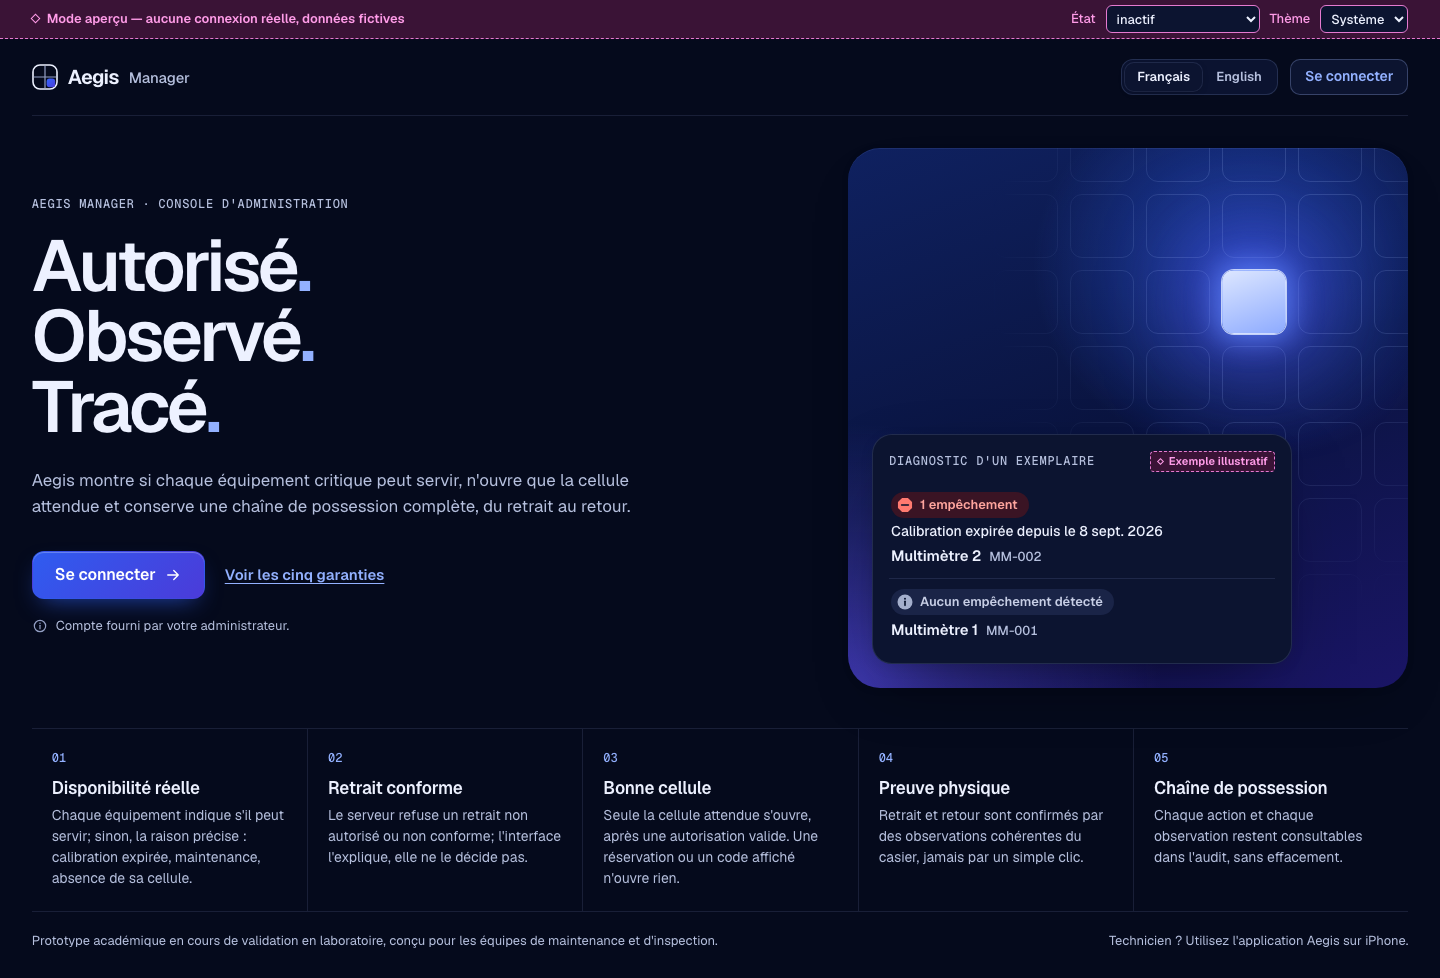
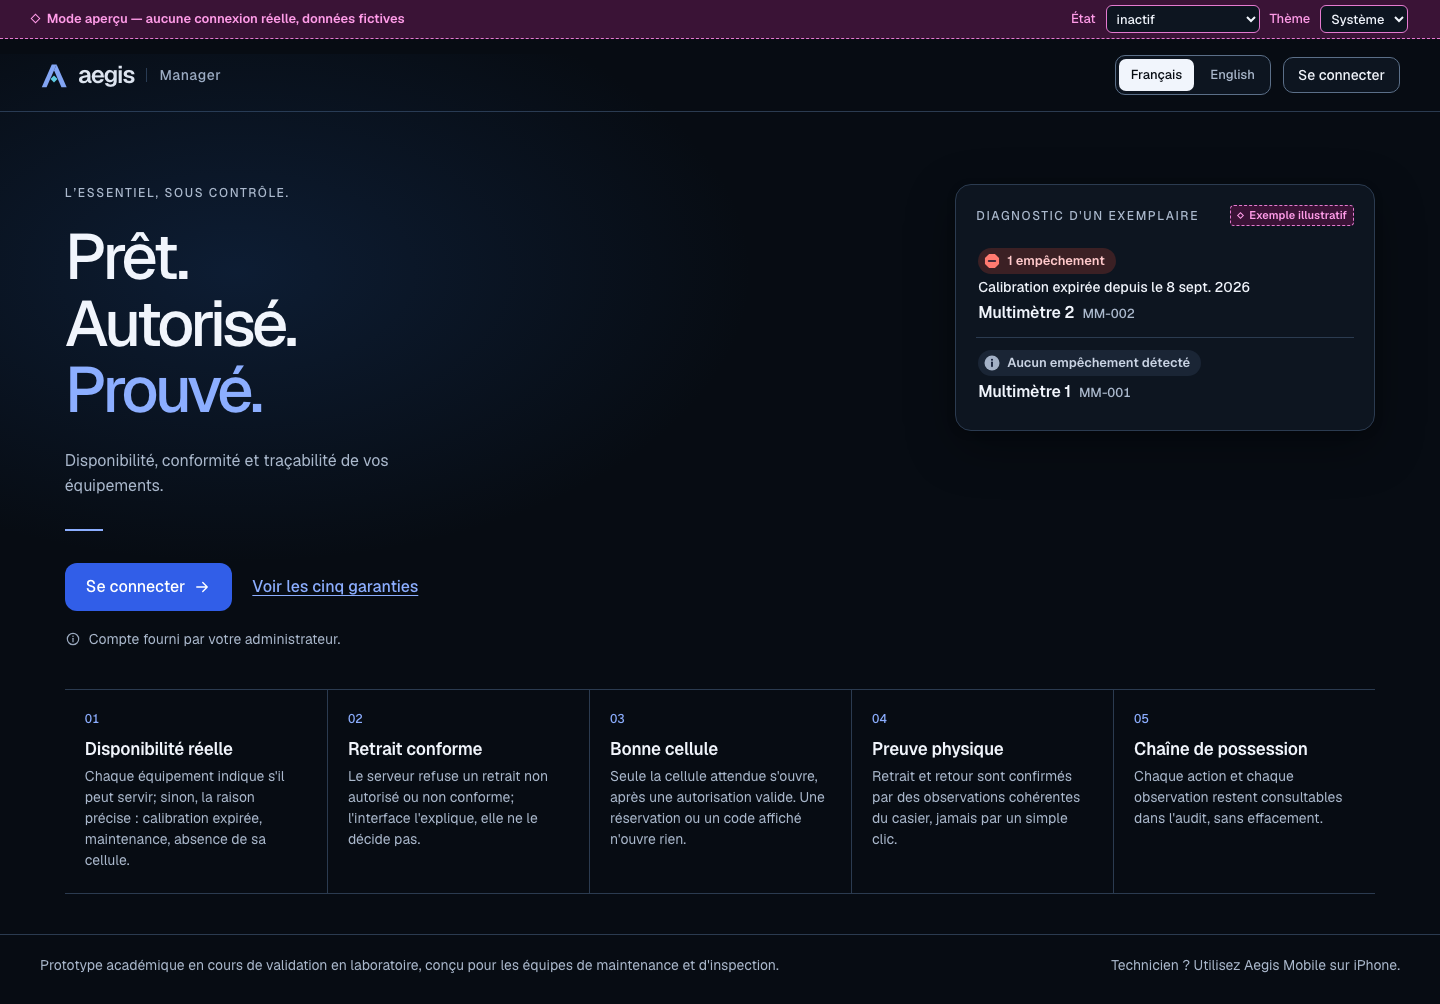
docs(design): record the v3 integration and regenerate the entry evidence
Add the 14 integrated captures (FR/EN, light/dark, 1440 to 640x400), regenerate
the manager-entree captures from the integrated app, and record in the v3 README
how Philippe's decisions were integrated.

diff --git a/docs/design/manager-v3/README.md b/docs/design/manager-v3/README.md
@@ -1,9 +1,55 @@
 # Aegis Manager — identité « Lumière du hub » v3 (issue #79, premier livrable)
 
-Mode : Prototype. Date : 21 octobre 2026. Plateforme : Web. Statut : **rendus à
-faire approuver par Philippe avant toute modification de `apps/admin-web`**.
-Ce dossier ne touche ni au code applicatif, ni aux contrats, ni à
+Mode : Prototype. Date : 21 octobre 2026. Plateforme : Web. Statut : **rendus approuvés par Philippe; intégrés à `apps/admin-web` (voir ci-dessous)**.
+Le prototype lui-même ne touche ni au code applicatif, ni aux contrats, ni à
 l'authentification. Un prototype statique n'est pas une implémentation.
+
+## Intégration dans `apps/admin-web` (issue #79, 21 octobre 2026)
+
+Les rendus ont été approuvés par Philippe et l'identité est intégrée à
+l'application (`apps/admin-web`, branche `79-feat-web-brand-v3`). Les décisions de
+Philippe qui ferment les « Décisions ouvertes » ci-dessous :
+
+1. L'erreur globale de connexion s'affiche **sous le bouton**, dans une zone
+   annoncée (`role="alert"`, `role="status"` pour l'information) : 0 px de saut
+   des champs et du bouton, mesuré à 1440, 390, 320 et 640×400 px pour les quatre
+   erreurs globales. Une erreur de champ reste sous son champ.
+2. Signature commune « Prêt. Autorisé. Prouvé. » / « Ready. Authorized. Proven. »
+   et accroche « L'essentiel, sous contrôle. » / « What matters, under control. »;
+   l'ancien « Autorisé. Observé. Tracé. » disparaît de l'accueil.
+3. Description « Disponibilité, conformité et traçabilité de vos équipements. »
+   / « Equipment availability, compliance and traceability. ».
+4. Le lien « Accueil » est conservé (l'accueil existe), masqué sous 480 px où la
+   marque mène déjà à l'accueil; pied de page « Aegis Mobile ».
+5. Champs sans texte indicatif, libellés persistants.
+6. « Manager » reste visible sur petit écran, sur une seconde ligne sous
+   « aegis » (sous 480 px); le symbole passe à 24 px.
+7. Bordure des contrôles, anneau de focus plein de 2 px décalé de 2 px, sélection
+   et désactivé repris dans `src/styles/tokens.css`; l'information est un bleu
+   azur (teinte entre 195° et 220°), sans indigo.
+8. Le choix de langue affiche « Français / English »; le délai `Retry-After` n'est
+   affiché qu'une fois, dans l'alerte (la légende « Disponible dans 0:55 » sous
+   le bouton est supprimée, le bouton verrouillé est décrit par l'alerte).
+9. Le libellé visible « Identifiant de suivi : » / « Trace ID: » est conservé.
+
+Écarts assumés par rapport au prototype statique :
+
+- palettes de `identite/reference.md` (fond clair `#F5F7FB`, surface sombre
+  `#0D1520`, champ `#141F2D`) plutôt que celles de la maquette Web;
+- le prototype n'avait ni accueil ni page introuvable : l'accueil reprend la même
+  hiérarchie (signature, une action) avec l'exemple illustratif de diagnostic sur
+  une carte opaque, sans cellule ni halo autour de la carte;
+- la flèche du bouton principal est conservée, remplacée par l'indicateur
+  d'occupation pendant l'envoi;
+- le shell garde son architecture : barre latérale opaque pleine hauteur
+  (280 px), barre supérieure plate et tiroir modal sous 1024 px.
+
+Preuves : captures dans `captures-integration/` (14, à 1×,
+`<écran>-<état>-<langue>-<apparence>-<taille>.png`), mesures du rendu avec
+`npm run test:identity` (saut de mise en page, contrastes peints, focus, texte
+coupé), matrice axe avec `npm run test:a11y`. Les textes marqués [P] des
+catalogues (« Espace administrateur », « Accédez à Aegis Manager. », pied
+« Aegis Manager · Administration ») restent à valider.
 
 Références : `../identite/reference.md` (identité commune, décisions de
 Philippe), `../identite/v3/web/aegis-web-v3.html` (maquette Web de Philippe),
